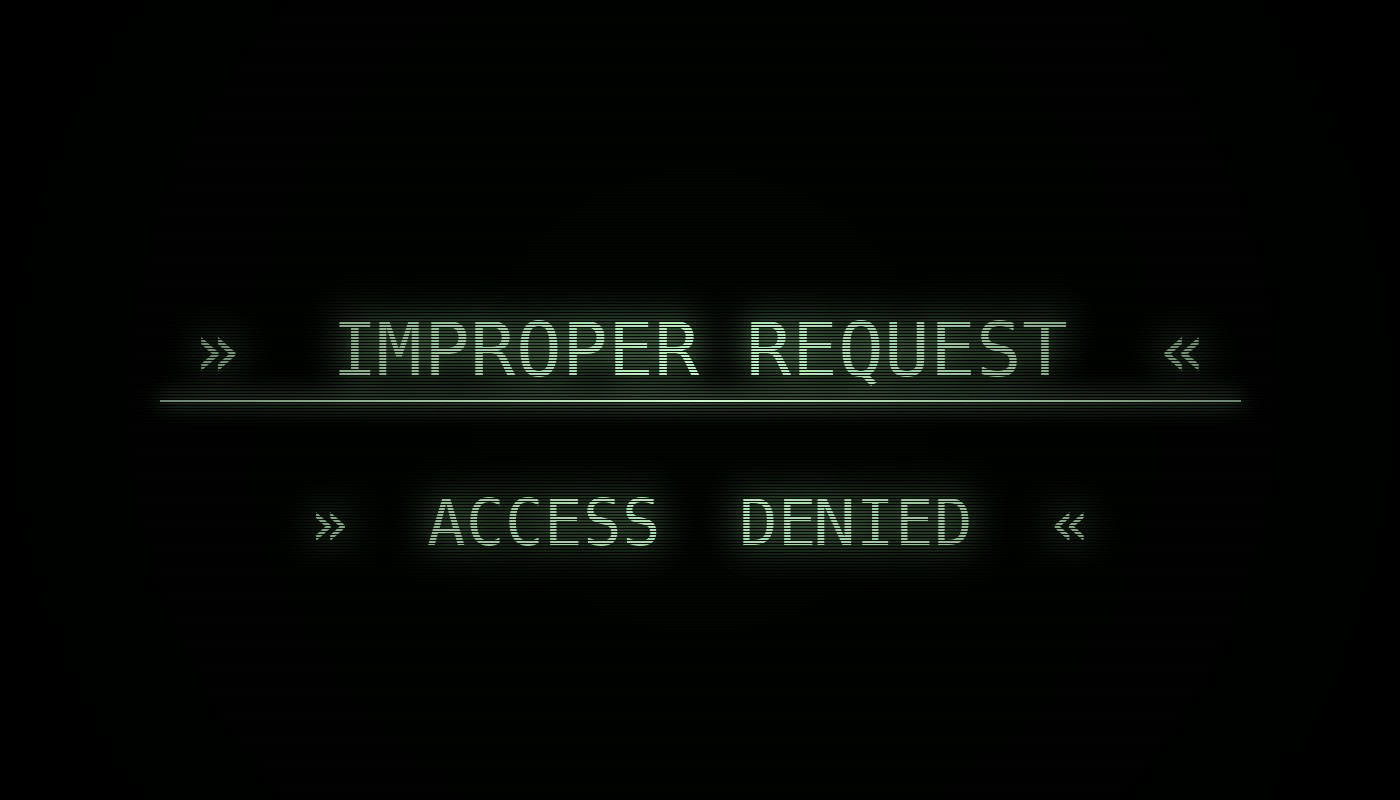
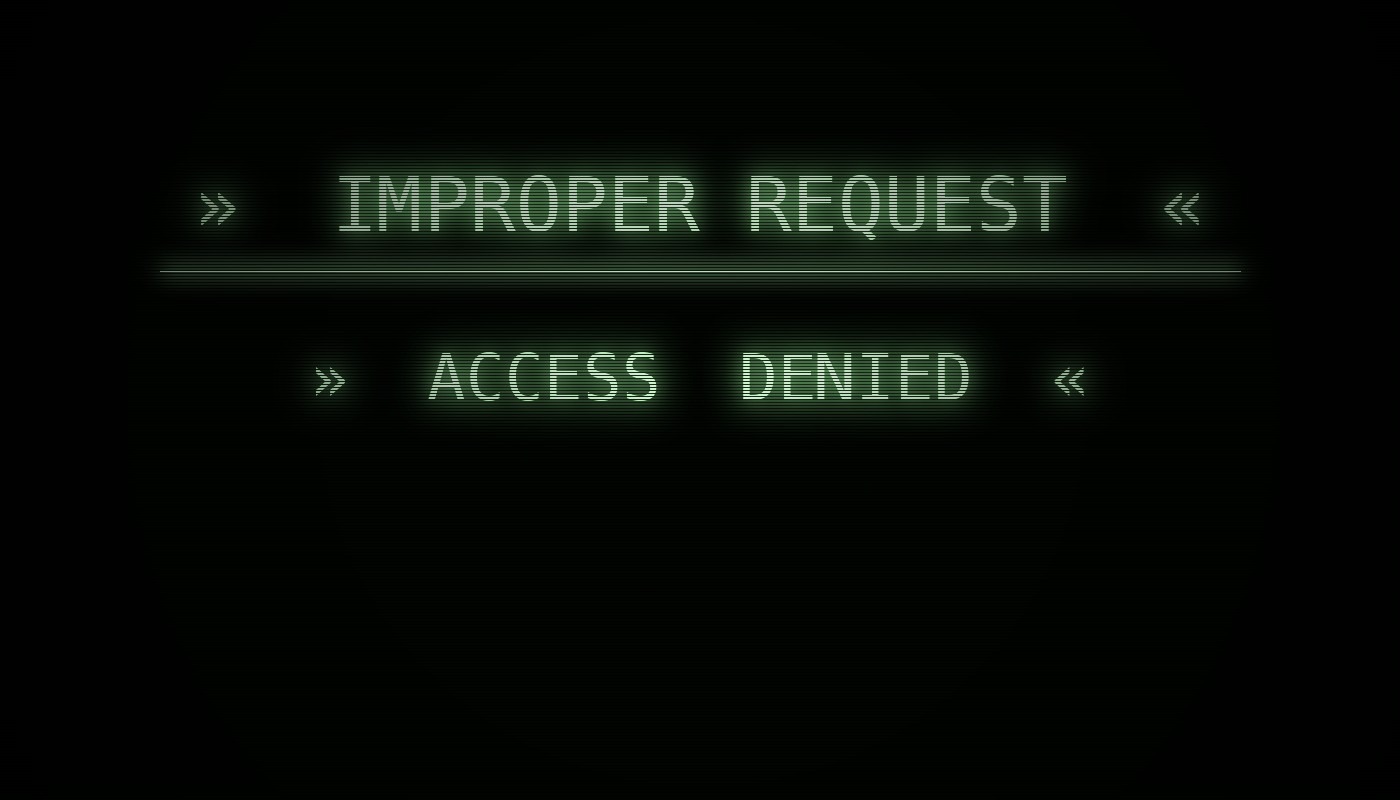
Reposicionar texto CRT en tercio superior y ajustar background-position

diff --git a/index.html b/index.html
@@ -58,7 +58,7 @@
       align-items: center;
       justify-content: flex-start;
       padding: 20px 24px 40px;
-      background: #000 url('./assets/lock-bg.jpg') center 38%/cover no-repeat;
+      background: #000 url('./assets/lock-bg.jpg') center top/cover no-repeat;
       transition: opacity 0.35s ease, visibility 0.35s ease;
       overflow-y: auto;
     }
@@ -884,6 +884,6 @@
       Portal principal de trabajo de csilvasantin. Primero contexto. Despues ejecucion. Siempre cierre visible.
     </p>
   </main>
-  <script src="./assets/home-lock.js?v=15"></script>
+  <script src="./assets/home-lock.js?v=16"></script>
 </body>
 </html>
